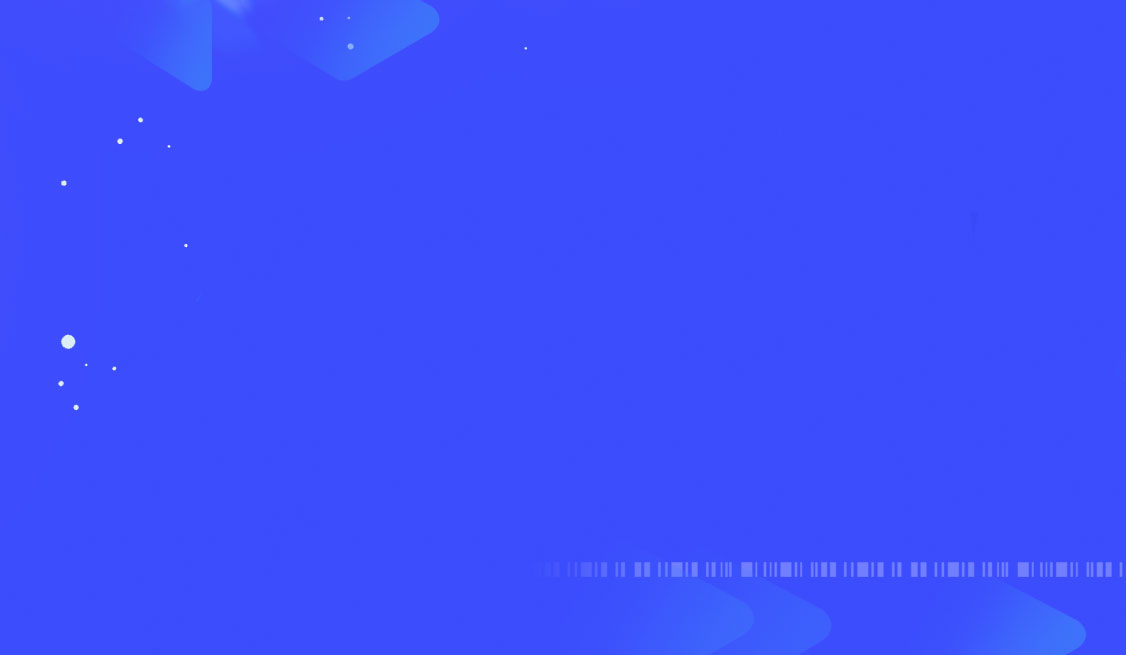
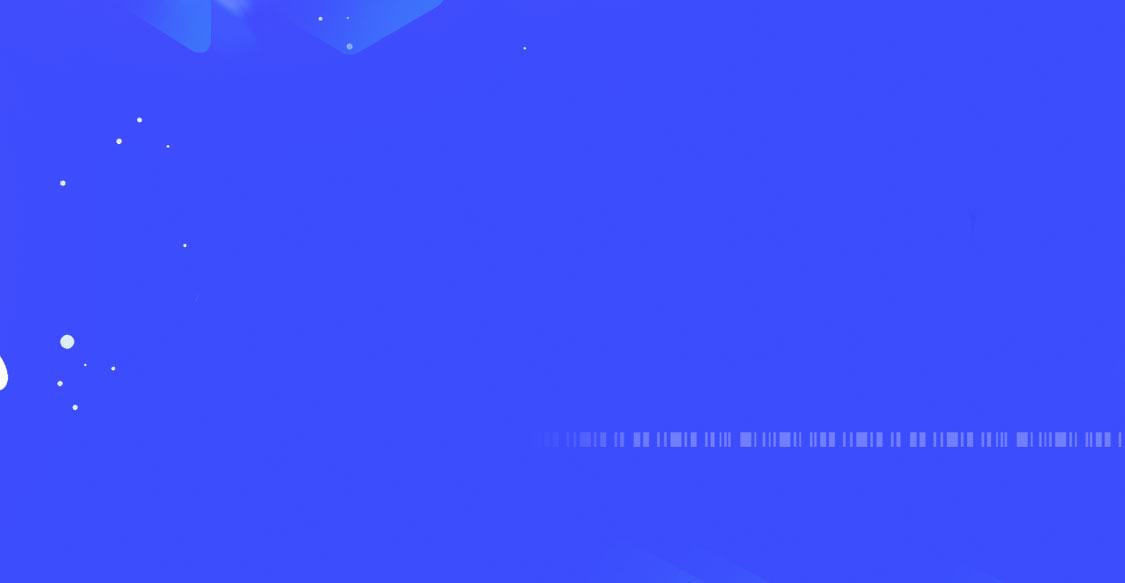
modified data-login

diff --git a/data-login/css/container.css b/data-login/css/container.css
@@ -1,2 +1,2 @@
-body,button,input,select,textarea{font-family:Tahoma,Helvetica,'\5FAE\8F6F\96C5\9ED1',Arial,sans-serif;color:#666}body,div,h1,h2,h3,h4,h5,h6,dl,dt,dd,ul,ol,li,th,td,p,blockquote,pre,form,fieldset,legend,input,button,textarea,article,aside,footer,header,hgroup,nav,section,menu,figure,figcaption,dialog{margin:0;padding:0}table{border-collapse:collapse;border-spacing:0}h1,h2,h3,h4,h5,h6{font-weight:normal}li{list-style:none}fieldset,img,dialog{border:0;vertical-align:middle}input,textarea{outline-style:none}textarea{resize:none}article,aside,footer,header,hgroup,nav,section,menu{display:block}address,caption,cite,code,dfn,em,i,th,var{font-style:normal;font-weight:400}a{text-decoration:none;outline:none;color:#666}a:hover{text-decoration:none}.clearfix:after{content:"";display:block;height:0;clear:both;visibility:hidden}.clearfix{zoom:1}.clear{overflow:hidden;zoom:1}.clr{clear:both !important}.icon{display:inline-block;vertical-align:middle;*vertical-align:auto;zoom:1;*display:inline;background:none no-repeat center;width:0;height:0}input::-webkit-input-placeholder{color:#999}input::-moz-placeholder{color:#999}input:-moz-placeholder{color:#999}input:-ms-input-placeholder{color:#999}.inp-txt{border:1px solid #ddd;padding-left:59px;background:url("../images/icon-user.png") no-repeat 21px center;width:322px;height:40px;line-height:40px;box-sizing:border-box;border-radius:10px;margin-bottom:10px;font-size:14px}.inp-txt.inp-password{background-image:url("../images/icon-password.png")}.inp-txt.inp-testcode{background-image:url("../images/icon-testcode.png")}.page-index{font-size:14px;color:#999}#header{height:58px;line-height:58px;background-color:#fff;overflow:hidden;width:1126px;margin:auto}#header .logo{background:url("../images/logo.png") no-repeat left center;width:76px;height:40px;display:inline-block;vertical-align:middle;*vertical-align:auto;zoom:1;*display:inline;background-size:100%;margin-left:3px}#header .slogn{font-size:14px;font-weight:bold;color:#7e7e7e;margin-left:26px;display:inline-block;vertical-align:middle;*vertical-align:auto;zoom:1;*display:inline}#header .menu{color:#1c21c4;float:right}#header .menu>a{color:#1c21c4}#footer{background-color:#fff;color:#000;font-size:12px;text-align:center;line-height:58px;height:58px}.contents-box{background:url("../images/banner-01.jpg") no-repeat center #3f4efd}.contents{background:url("../images/banner.jpg") no-repeat center;width:1126px;margin:auto;height:655px;position:relative}.contents:before{content:'';display:block;width:588px;height:443px;background:url("../images/banner-01.png") center no-repeat;background-size:100%;position:absolute;left:0;top:50%;margin-top:-177px;z-index:1}.login-content{background-color:#fff;width:390px;border-radius:10px;position:absolute;top:50%;right:0%;margin-top:-181px;box-sizing:border-box;padding:30px 25px 25px;text-align:center;z-index:10}.login-content:before{content:'';display:block;border-radius:100%;width:140px;height:140px;background:url("../images/logo.png") no-repeat center 23px #fff;margin:-98px 0 0 -70px;left:50%;position:absolute}.login-content .title{text-align:center;position:relative;z-index:2;margin-bottom:16px;font-size:20px;color:#333;font-weight:normal}.login-content .testcoed{margin-bottom:10px}.login-content .testcoed .inp-txt{width:242px;margin-bottom:0}.login-content .testcoed .btn-testcode{display:inline-block;vertical-align:middle;*vertical-align:auto;zoom:1;*display:inline;width:70px;height:40px;line-height:40px;box-sizing:border-box;border-radius:10px;border:1px solid #ddd;margin-left:8px;cursor:pointer}.login-content .elsebtn{display:flex;justify-content:space-between;margin:0 15px 18px}.login-content .elsebtn #inp-checkbox{margin-top:-3px}.login-content .elsebtn .forget-password{color:#999}.login-content .elsebtn label{cursor:pointer}.login-content .inp-submit{display:block;width:263px;height:35px;line-height:35pxv;color:#fff;font-size:18px;border-radius:16px;margin:0 auto 10px;box-shadow:0 0 20px rgba(100,175,255,0.59);background:linear-gradient(90deg, #1b20c3, #334ff4);border:none 0;cursor:pointer}.login-content .btn-registered{color:#999}
+body,button,input,select,textarea{font-family:Tahoma,Helvetica,'\5FAE\8F6F\96C5\9ED1',Arial,sans-serif;color:#666}body,div,h1,h2,h3,h4,h5,h6,dl,dt,dd,ul,ol,li,th,td,p,blockquote,pre,form,fieldset,legend,input,button,textarea,article,aside,footer,header,hgroup,nav,section,menu,figure,figcaption,dialog{margin:0;padding:0}table{border-collapse:collapse;border-spacing:0}h1,h2,h3,h4,h5,h6{font-weight:normal}li{list-style:none}fieldset,img,dialog{border:0;vertical-align:middle}input,textarea{outline-style:none}textarea{resize:none}article,aside,footer,header,hgroup,nav,section,menu{display:block}address,caption,cite,code,dfn,em,i,th,var{font-style:normal;font-weight:400}a{text-decoration:none;outline:none;color:#666}a:hover{text-decoration:none}.clearfix:after{content:"";display:block;height:0;clear:both;visibility:hidden}.clearfix{zoom:1}.clear{overflow:hidden;zoom:1}.clr{clear:both !important}.icon{display:inline-block;vertical-align:middle;*vertical-align:auto;zoom:1;*display:inline;background:none no-repeat center;width:0;height:0}input::-webkit-input-placeholder{color:#999}input::-moz-placeholder{color:#999}input:-moz-placeholder{color:#999}input:-ms-input-placeholder{color:#999}.inp-txt{border:1px solid #ddd;padding-left:59px;background:url("../images/icon-user.png") no-repeat 21px center;width:322px;height:40px;line-height:40px;box-sizing:border-box;border-radius:10px;margin-bottom:10px;font-size:14px}.inp-txt.inp-password{background-image:url("../images/icon-password.png")}.inp-txt.inp-testcode{background-image:url("../images/icon-testcode.png")}.page-index{font-size:14px;color:#999}#header{height:58px;line-height:58px;background-color:#fff;overflow:hidden;width:1126px;margin:auto}#header .logo{background:url("../images/logo.png") no-repeat left center;width:76px;height:40px;display:inline-block;vertical-align:middle;*vertical-align:auto;zoom:1;*display:inline;background-size:100%;margin-left:3px}#header .slogn{font-size:14px;font-weight:bold;color:#7e7e7e;margin-left:26px;display:inline-block;vertical-align:middle;*vertical-align:auto;zoom:1;*display:inline}#header .menu{color:#1c21c4;float:right}#header .menu>a{color:#1c21c4}#footer{background-color:#fff;color:#000;font-size:12px;text-align:center;line-height:58px;height:58px}.contents-box{background:url("../images/banner-01.jpg") no-repeat center #3f4efd}.contents{background:url("../images/banner.jpg") no-repeat center;width:1126px;margin:auto;height:583px;position:relative}.contents:before{content:'';display:block;width:588px;height:443px;background:url("../images/banner-01.png") center no-repeat;background-size:100%;position:absolute;left:0;top:50%;margin-top:-213px;z-index:1}.login-content{background-color:#fff;width:390px;border-radius:10px;position:absolute;top:50%;right:0%;margin-top:-144px;box-sizing:border-box;padding:30px 25px 25px;text-align:center;z-index:10}.login-content:before{content:'';display:block;border-radius:100%;width:140px;height:140px;background:url("../images/logo.png") no-repeat center 23px #fff;margin:-98px 0 0 -70px;left:50%;position:absolute}.login-content .title{text-align:center;position:relative;z-index:2;margin-bottom:16px;font-size:20px;color:#333;font-weight:normal}.login-content .testcoed{margin-bottom:10px}.login-content .testcoed .inp-txt{width:242px;margin-bottom:0}.login-content .testcoed .btn-testcode{display:inline-block;vertical-align:middle;*vertical-align:auto;zoom:1;*display:inline;width:70px;height:40px;line-height:40px;box-sizing:border-box;border-radius:10px;border:1px solid #ddd;margin-left:8px;cursor:pointer}.login-content .elsebtn{display:flex;justify-content:space-between;margin:0 15px 18px}.login-content .elsebtn #inp-checkbox{margin-top:-3px}.login-content .elsebtn .forget-password{color:#999}.login-content .elsebtn label{cursor:pointer}.login-content .inp-submit{display:block;width:263px;height:35px;line-height:35pxv;color:#fff;font-size:18px;border-radius:16px;margin:0 auto 10px;box-shadow:0 0 20px rgba(100,175,255,0.59);background:linear-gradient(90deg, #1b20c3, #334ff4);border:none 0;cursor:pointer}.login-content .btn-registered{color:#999}
 /*# sourceMappingURL=container.css.map */

diff --git a/data-login/scss/container.scss b/data-login/scss/container.scss
@@ -49,11 +49,11 @@ input:-ms-input-placeholder{  /* Internet Explorer 10-11 */
 }
 #footer{ background-color: #fff; color: #000; font-size: 12px; text-align: center; line-height: 58px; height: 58px;}
 .contents-box{ background: url('../images/banner-01.jpg') no-repeat center #3f4efd;}
-.contents{ background: url('../images/banner.jpg') no-repeat center; width: 1126px; margin: auto; height: 655px; position: relative;
-  &:before{ content: ''; display: block; width: 588px; height: 443px; background:url( '../images/banner-01.png') center no-repeat; background-size: 100%; position: absolute; left: 0; top: 50%; margin-top: -177px; z-index: 1;} 
+.contents{ background: url('../images/banner.jpg') no-repeat center; width: 1126px; margin: auto; height: 583px; position: relative;
+  &:before{ content: ''; display: block; width: 588px; height: 443px; background:url( '../images/banner-01.png') center no-repeat; background-size: 100%; position: absolute; left: 0; top: 50%; margin-top: -213px; z-index: 1;} 
 }
 
-.login-content{ background-color: #fff; width: 390px; border-radius: 10px; position: absolute; top: 50%; right: 0%; margin-top: -181px; box-sizing: border-box; padding:30px 25px 25px; text-align: center; z-index: 10;
+.login-content{ background-color: #fff; width: 390px; border-radius: 10px; position: absolute; top: 50%; right: 0%; margin-top: -144px; box-sizing: border-box; padding:30px 25px 25px; text-align: center; z-index: 10;
   &:before{ content: ''; display: block; border-radius: 100%; width: 140px; height: 140px; background: url('../images/logo.png') no-repeat center 23px #fff;  margin:-98px 0 0 -70px; left: 50%; position: absolute;} 
   .title{ text-align: center; position: relative; z-index: 2; margin-bottom: 16px; font-size: 20px; color: #333; font-weight: normal;}
   .testcoed{ margin-bottom: 10px;
